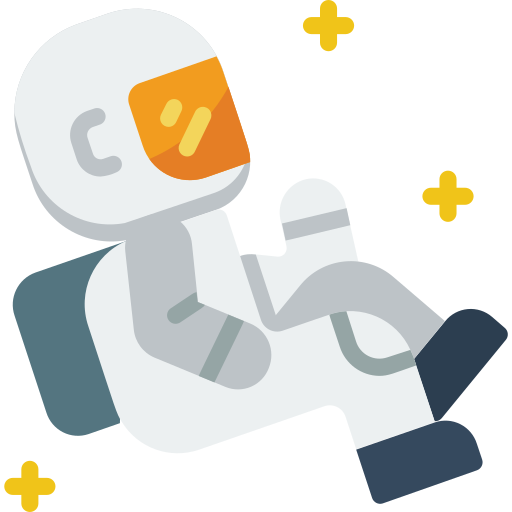
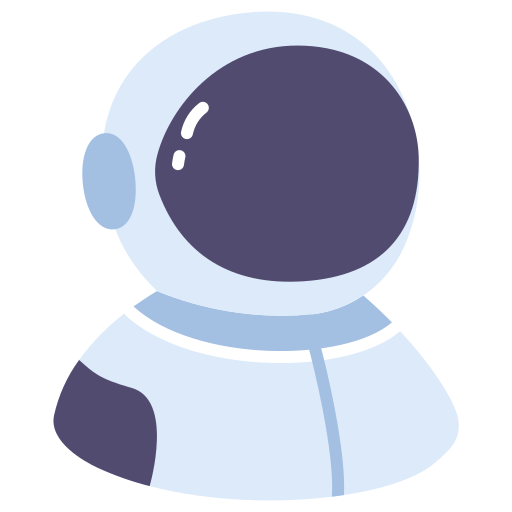
update: 增加注释

diff --git a/src/routes/bottomTab.tsx b/src/routes/bottomTab.tsx
@@ -1,9 +1,8 @@
 import {createBottomTabNavigator} from '@react-navigation/bottom-tabs';
-import IoniconsIcon from 'react-native-vector-icons/Ionicons';
+import Ionicon from 'react-native-vector-icons/Ionicons';
 import {Icon, useColorMode} from 'native-base';
 import ProfileScreen from '~screens/mine/profile';
 import HomeScreen from '~screens/encounter/home';
-IoniconsIcon.loadFont();
 
 const Tab = createBottomTabNavigator();
 
@@ -27,7 +26,7 @@ const BottomTab = () => {
           tabBarLabel: '遇见',
           headerShown: false,
           tabBarIcon: ({size, color}) => (
-            <IoniconsIcon name="planet" size={size} color={color} />
+            <Icon as={Ionicon} name="planet" size={size} color={color} />
           ),
         }}
       />
@@ -38,7 +37,7 @@ const BottomTab = () => {
           tabBarLabel: '我的',
           headerShown: false,
           tabBarIcon: ({size, color}) => (
-            <Icon as={IoniconsIcon} name="person" size={size} color={color} />
+            <Icon as={Ionicon} name="person" size={size} color={color} />
           ),
         }}
       />

diff --git a/src/screens/encounter/home/components/spin-planet/index.tsx b/src/screens/encounter/home/components/spin-planet/index.tsx
@@ -1,6 +1,6 @@
-import {Box, Flex, Icon, Pressable, View} from 'native-base';
+import {Box, Flex, View} from 'native-base';
 import {useEffect, useRef, useState} from 'react';
-import {Animated, Easing, Image, Text} from 'react-native';
+import {Animated, Image, Text} from 'react-native';
 import chatStore from '~stores/chat/chatStore';
 import {ChatStateType} from '~stores/chat/types';
 import {IUser, SexType} from '~stores/user/types';
@@ -173,7 +173,7 @@ const SpinPlanet: React.FC<IProps> = ({userInfoList}) => {
                 source={
                   userInfoList[randomIndexList[index]]?.headPhoto
                     ? {uri: userInfoList[randomIndexList[index]]?.headPhoto}
-                    : require('~assets/images/avatar2.png')
+                    : require('~assets/images/avatar.png')
                 }
               />
             </Box>

diff --git a/src/screens/encounter/chat/components/info-board/index.tsx b/src/screens/encounter/chat/components/info-board/index.tsx
@@ -159,14 +159,14 @@ const InfoBoard: React.FC<IProps> = ({topicList}) => {
                   source={
                     chatStore.opponent?.headPhoto
                       ? {uri: chatStore.opponent.headPhoto}
-                      : require('~assets/images/avatar2.png')
+                      : require('~assets/images/avatar.png')
                   }
                 />
                 <Avatar
                   source={
                     userStore.user.headPhoto
                       ? {uri: userStore.user.headPhoto}
-                      : require('~assets/images/avatar2.png')
+                      : require('~assets/images/avatar.png')
                   }
                 />
               </Avatar.Group>

diff --git a/src/screens/encounter/chat/index.tsx b/src/screens/encounter/chat/index.tsx
@@ -70,7 +70,7 @@ const ChatScreen = () => {
       user: {
         _id: userStore.user.id,
         avatar:
-          userStore.user.headPhoto ?? require('~assets/images/avatar2.png'),
+          userStore.user.headPhoto ?? require('~assets/images/avatar.png'),
       },
     };
     chatStore.sendMessage(message);
@@ -98,7 +98,7 @@ const ChatScreen = () => {
         user={{
           _id: userStore.user.id,
           avatar:
-            userStore.user.headPhoto ?? require('~assets/images/avatar2.png'),
+            userStore.user.headPhoto ?? require('~assets/images/avatar.png'),
         }}
       />
     </PageContainer>

diff --git a/src/stores/chat/chatSocket.tsx b/src/stores/chat/chatSocket.tsx
@@ -1,6 +1,5 @@
 import {Toast} from 'native-base';
 import {Platform} from 'react-native';
-import {IMessage} from 'react-native-gifted-chat';
 import userStore from '~stores/user/userStore';
 import chatStore from './chatStore';
 import {cancelMessage} from './constants';
@@ -91,7 +90,7 @@ export class ChatSocket {
               if (message) {
                 message.user.avatar =
                   chatStore.opponent?.headPhoto ??
-                  require('~assets/images/avatar2.png');
+                  require('~assets/images/avatar.png');
                 chatStore.addMessageSelf(message);
               }
             }

diff --git a/src/components/page-container/index.tsx b/src/components/page-container/index.tsx
@@ -12,9 +12,9 @@ interface IProps extends PropsWithChildren {
   safeAreaTop?: number; // false不起作用，取消顶部空间直接传入0
   safeAreaBottom?: number;
   hasHeader?: boolean; // 是否带header
-  title?: string;
-  leftAction?: () => void;
-  rightAction?: () => void;
+  title?: string; // header中的标题
+  leftAction?: () => void; // 左侧icon点击事件，默认为返回上级
+  rightAction?: () => void; // 右侧icon点击事件
 }
 
 const PageContainer: React.FC<IProps> = ({

diff --git a/src/screens/mine/edit-info/index.tsx b/src/screens/mine/edit-info/index.tsx
@@ -213,7 +213,7 @@ const EditInfoScreen = memo(() => {
                 source={
                   formData.headPhoto
                     ? {uri: formData.headPhoto}
-                    : require('~assets/images/avatar2.png')
+                    : require('~assets/images/avatar.png')
                 }
                 style={{
                   width: 100,

diff --git a/src/App.tsx b/src/App.tsx
@@ -43,7 +43,7 @@ const App = () => {
       .finally(() => setTimeout(() => setIsLaunched(true), 2000));
   }, []);
 
-  /** 获取院系、兴趣字典表 */
+  /** 提前获取院系、兴趣字典表 */
   useEffect(() => {
     try {
       getInterestDicts().then(dicts => userStore.updateInterestDicts(dicts));

diff --git a/src/screens/mine/profile/index.tsx b/src/screens/mine/profile/index.tsx
@@ -144,7 +144,7 @@ const ProfileScreen = () => {
           source={
             userStore.user.headPhoto
               ? {uri: userStore.user.headPhoto}
-              : require('~assets/images/avatar2.png')
+              : require('~assets/images/avatar.png')
           }
         />
         <Box

diff --git a/src/components/interest-select/index.tsx b/src/components/interest-select/index.tsx
@@ -1,4 +1,4 @@
-import {Button, Divider, Flex} from 'native-base';
+import {Button, Flex} from 'native-base';
 import {ColorSchemeType} from 'native-base/lib/typescript/components/types';
 import {memo} from 'react';
 import {DictType} from '~utils/types';
